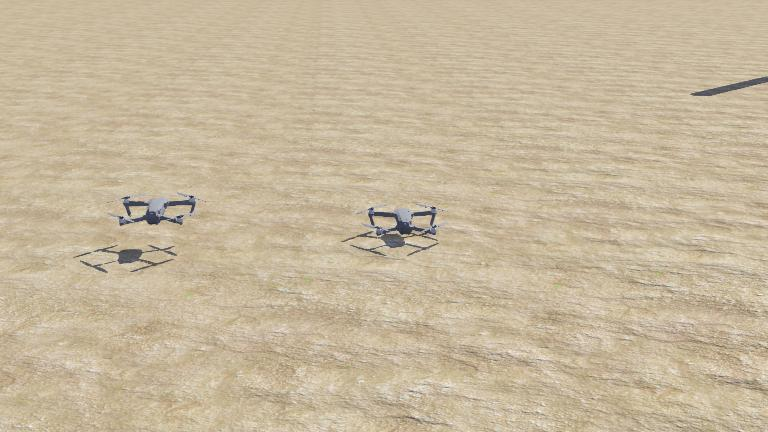
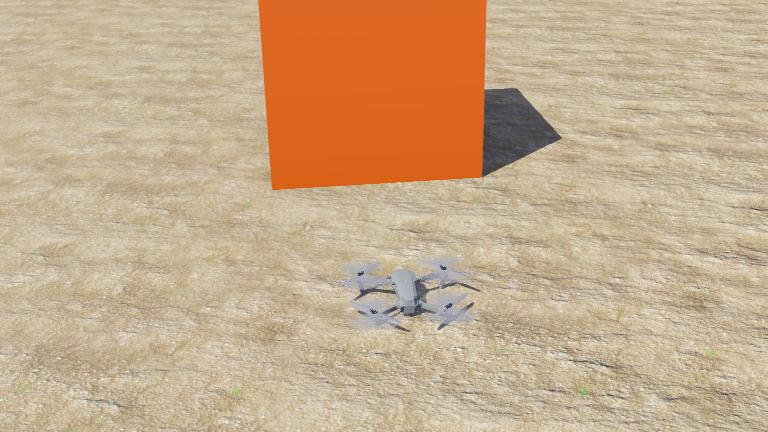
Added obstacle detection

diff --git a/controllers/uav_controller/src/modules/control_module.c b/controllers/uav_controller/src/modules/control_module.c
@@ -6,6 +6,10 @@
  * Module that control uav movements
  */
 
+#include <math.h>
+#include <stdio.h>
+#include <stdlib.h>
+
 #include "../includes/uav.h"
 
 #define CLAMP(val, min, max) ((val) < (min) ? (min) : ((val) > (max) ? (max) : (val)))
@@ -43,6 +47,71 @@ int move_to_goal(Uav *uav, Position goal) {
     #endif /* ifdef DEBUG */
 
     return 0;
+}
+
+Position obstacle_relative_pos(double obs_dist, double obs_azimuth) {
+    double alpha = obs_azimuth;
+    double xo = cos(alpha) * obs_dist;
+    double yo = sin(alpha) * obs_dist;
+
+    if (obs_azimuth > 0) {
+        yo = yo * (-1.0f);
+    }
+
+    Position p = {xo, yo, 0};
+
+    return p;
+}
+
+Position rotate_pos(Position v, double alpha) {
+    double xp = v.x * cos(alpha) - v.y * sin(alpha);
+    double yp = v.x * sin(alpha) + v.y * cos(alpha);
+    Position p = { xp, yp, 0 };
+    return p;
+}
+
+Position translate_pos(Position p1, Position p2) {
+    Position pf = { p1.x + p2.x, p1.y + p2.y, 0 };
+    return pf;
+}
+
+Position* cm_detect_obstacles(Uav *uav, int *num) {
+    int target_num;
+    WbRadarTarget *targets;
+    double heading, *gps_pos;
+    Position uav_pos = { 0 };
+
+    target_num = uav_get_radar_targets_num(uav);
+    targets = uav_get_radar_targets(uav);
+    heading = uav_get_heading(uav);
+    heading = to_rad(heading);
+    gps_pos = uav_get_gps_pos(uav);
+
+    uav_pos.x = gps_pos[0];
+    uav_pos.y = gps_pos[1];
+
+    heading = (2*M_PI) - heading;
+
+    Position *targets_pos = (Position *) realloc(targets_pos, sizeof(Position) * target_num);
+    if (targets_pos == NULL) {
+        printf("Failed to allocate memeory in cm_detect_obstacle!\n");
+        exit(EXIT_FAILURE);
+    }
+
+    for (int i = 0; i < target_num; i++) {
+        targets_pos[i] = obstacle_relative_pos(targets[i].distance, targets[i].azimuth);
+        targets_pos[i] = rotate_pos(targets_pos[i], heading);
+        targets_pos[i] = translate_pos(uav_pos, targets_pos[i]);
+
+        #ifdef DEBUG
+        logs("Obstacle detected at:");
+        log2vf(targets_pos[i].x, "x:", targets_pos[i].y, "y:");
+        logvi(i, "Target ID:");
+        #endif /* ifdef DEBUG */
+    }
+
+    *num = target_num;
+    return targets_pos;
 }
 
 // update variables in the UAV struct, compute the disturbance and actuate motors

diff --git a/controllers/uav_controller/src/uav.c b/controllers/uav_controller/src/uav.c
@@ -32,6 +32,9 @@ void uav_init(Uav* uav, int timestep){
     uav->receiver = wb_robot_get_device("receiver");
     wb_receiver_enable(uav->receiver, timestep);
 
+    uav->radar= wb_robot_get_device("radar");
+    wb_radar_enable(uav->radar, timestep);
+
     // Get motors of the porpellers
     WbDeviceTag front_left_motor = wb_robot_get_device("front left propeller");
     WbDeviceTag front_right_motor = wb_robot_get_device("front right propeller");
@@ -164,6 +167,22 @@ double uav_get_heading(Uav* uav){
     if (heading < 0.0)
         heading = heading + 360.0;
     return heading;
+}
+
+// Return the number of targets detected by the radar
+int uav_get_radar_targets_num(Uav *uav) {
+    return wb_radar_get_number_of_targets(uav->radar);
+}
+
+// Return the array of detected targets by the radar
+WbRadarTarget* uav_get_radar_targets(Uav* uav) {
+    return wb_radar_get_targets(uav->radar);
+}
+
+// Returns both the number and the array of obstacles identified by the radar
+int uav_get_obstacles(Uav* uav, WbRadarTarget* targets) {
+    targets = uav_get_radar_targets(uav);
+    return uav_get_radar_targets_num(uav);
 }
 
 // Kind of pointless to use these functions

diff --git a/controllers/uav_controller/src/includes/uav.h b/controllers/uav_controller/src/includes/uav.h
@@ -5,6 +5,9 @@
  * Description: uav structure
 */
 
+#ifndef UAV_H
+#define UAV_H
+
 // libc includes
 #include <math.h>
 #include <stdio.h>
@@ -24,6 +27,7 @@
 #include <webots/camera.h>
 #include <webots/emitter.h>
 #include <webots/receiver.h>
+#include <webots/radar.h>
 
 #include "../util/includes/util.h"
 #include "../modules/includes/comm_module.h"
@@ -67,6 +71,8 @@ typedef struct uav
     WbDeviceTag emitter;
     WbDeviceTag receiver;
 
+    WbDeviceTag radar;
+
     /* Variables */
     double target_alt; // Targeted altitude
     bool tagetReached;
@@ -99,9 +105,16 @@ double uav_get_yaw_velocity(Uav* uav);
 
 double uav_get_heading(Uav* uav);
 
+int uav_get_radar_targets_num(Uav* uav);
+WbRadarTarget* uav_get_radar_targets(Uav* uav);
+int uav_get_obstacles(Uav* uav, WbRadarTarget* targets);
+
 /* Setters */
 void uav_set_position(Uav* uav, Position position);
 
 /* Other methods */
 void uav_actuate_motors(Uav* uav, double roll, double pitch, double yaw, double altitude);
 void cm_run(Uav *uav, Position goal, double time);
+Position* cm_detect_obstacles(Uav *uav, int *num);
+
+#endif // !UAV_H

diff --git a/controllers/uav_controller/src/main.c b/controllers/uav_controller/src/main.c
@@ -1,12 +1,14 @@
 #include "includes/uav.h"
 #include "util/includes/util.h"
 #include <stdio.h>
+#include <math.h>
 
 int main(int argc, char **argv) {
   // Declare variabels and initialize goal
   Uav uav;
   Position goal;
-  int timestep;
+  Position *obstacles;
+  int timestep, obstacles_num;
 
   goal.x = -5.0;
   goal.y = 6.5;
@@ -36,8 +38,8 @@ int main(int argc, char **argv) {
   while (wb_robot_step(timestep) != -1) {
     const double time = wb_robot_get_time();
     
+    obstacles = cm_detect_obstacles(&uav, &obstacles_num);
     cm_run(&uav, goal, time); // Execute drone movements
-    
   };
 
   // Clean up

diff --git a/controllers/uav_controller/src/util/includes/util.h b/controllers/uav_controller/src/util/includes/util.h
@@ -1,3 +1,6 @@
+#ifndef UTIL_H
+#define UTIL_H
+
 // Init and cleanup function
 void init_debug_file();
 void cleanup_debug_file();
@@ -8,3 +11,8 @@ void log2vi(int val1, char *name1, int val2, char *name2);
 
 void logvf(double val, char *name);
 void log2vf(double val1, char *name1, double val2, char *name2);
+
+double to_rad(double alpha);
+double to_deg(double alpha);
+
+#endif // !UTIL_H

diff --git a/controllers/uav_controller/src/modules/includes/comm_module.h b/controllers/uav_controller/src/modules/includes/comm_module.h
@@ -5,6 +5,9 @@
  * Description: Header file of comm_module.c
 */
 
+#ifndef COMM_MODULE_H
+#define COMM_MODULE_H
+
 #include <stdlib.h>
 #include <math.h>
 
@@ -14,3 +17,5 @@ struct comm_module {
 
 // comm_gen_id randomly generates an id and stores it in the comm_module structure
 void comm_gen_id(struct comm_module *module, unsigned int seed);
+
+#endif // !COMM_MODULE_H

diff --git a/controllers/uav_controller/src/util/util.c b/controllers/uav_controller/src/util/util.c
@@ -1,3 +1,4 @@
+#include <math.h>
 #include <stdio.h>
 #include <stdlib.h>
 #include <webots/robot.h>
@@ -43,4 +44,12 @@ void logs(char *str) {
 
 void cleanup_debug_file() {
     fclose(file_ptr);
+}
+
+double to_deg(double alpha) {
+    return alpha * 180.0f / M_PI;
+}
+
+double to_rad(double alpha) {
+    return alpha / 180.0f * M_PI;
 }

diff --git a/controllers/uav_controller/src/util/includes/heap.h b/controllers/uav_controller/src/util/includes/heap.h
@@ -1,3 +1,6 @@
+#ifndef HEAP_H
+#define HEAP_H
+
 #define MIN_HEAP 0
 #define MAX_HEAP 1
 
@@ -27,3 +30,5 @@ HEAP* new_heap(void *data, int *keys, int h_len, char h_type);
 int heap_add(HEAP* h, void* val, int key);
 
 void heap_destroy(HEAP* h);
+
+#endif // !HEAP_H
